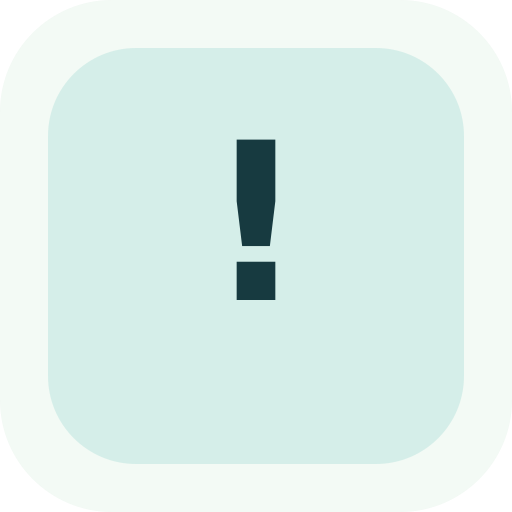
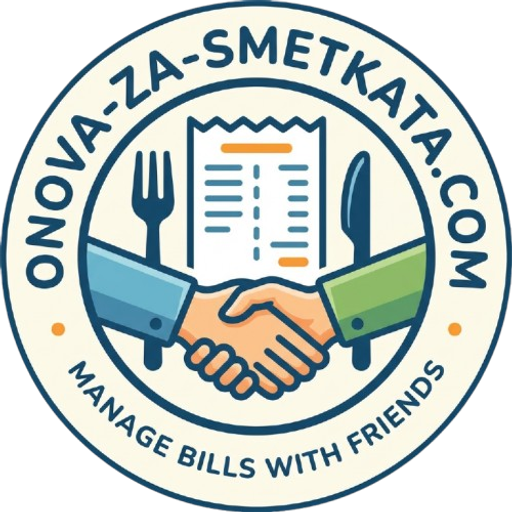
chore: update project configuration and assets for SEO enhancements
- Add new scripts for generating Open Graph images and update the PWA icon generation script to use a logo if available.
- Introduce a new SEO design document outlining share-friendly metadata and routing policies.
- Update the robots.txt and sitemap.xml for better search engine indexing.
- Implement site metadata functions to build Open Graph tags and manage page titles.
- Add tests for site metadata functions to ensure correct behavior across various scenarios.
- Include new logo and Open Graph image assets in the public directory.

diff --git a/src/lib/site-meta.ts b/src/lib/site-meta.ts
@@ -1,0 +1,106 @@
+export const SITE_NAME = 'Онова за сметката'
+
+export const SITE_DESCRIPTION =
+  'Мобилно приложение за разделяне на ресторантски сметки — добавяй участници, разпределяй артикули и следи плащанията.'
+
+export const JOIN_OG_TITLE = 'Присъедини се към сметката'
+
+export const JOIN_OG_DESCRIPTION =
+  'Отвори линка, избери името си и отбележи какво си консумирал.'
+
+export const DEFAULT_SITE_ORIGIN = 'https://onova-za-smetkata.com'
+
+export const OG_IMAGE_PATH = '/og-image.png'
+
+export type SiteMetaTag = {
+  charSet?: string
+  title?: string
+  name?: string
+  property?: string
+  content?: string
+}
+
+export function resolveSiteOrigin(fallbackOrigin = ''): string {
+  const fromEnv = import.meta.env.VITE_APP_ORIGIN?.trim()
+  if (fromEnv) return fromEnv.replace(/\/$/, '')
+  if (fallbackOrigin) return fallbackOrigin.replace(/\/$/, '')
+  return DEFAULT_SITE_ORIGIN
+}
+
+export function absoluteSiteUrl(path: string, origin?: string): string {
+  const base = (origin ?? resolveSiteOrigin()).replace(/\/$/, '')
+  if (path.startsWith('http://') || path.startsWith('https://')) return path
+  return `${base}${path.startsWith('/') ? path : `/${path}`}`
+}
+
+export function robotsNoIndexMeta(): SiteMetaTag {
+  return { name: 'robots', content: 'noindex, nofollow' }
+}
+
+export function buildOpenGraphMeta(options: {
+  title: string
+  description: string
+  path?: string
+  imagePath?: string
+  origin?: string
+}): SiteMetaTag[] {
+  const origin = options.origin ?? resolveSiteOrigin()
+  const pageUrl = absoluteSiteUrl(options.path ?? '/', origin)
+  const imageUrl = absoluteSiteUrl(options.imagePath ?? OG_IMAGE_PATH, origin)
+
+  return [
+    { name: 'description', content: options.description },
+    { property: 'og:title', content: options.title },
+    { property: 'og:description', content: options.description },
+    { property: 'og:type', content: 'website' },
+    { property: 'og:url', content: pageUrl },
+    { property: 'og:image', content: imageUrl },
+    { property: 'og:locale', content: 'bg_BG' },
+    { property: 'og:site_name', content: SITE_NAME },
+    { name: 'twitter:card', content: 'summary_large_image' },
+    { name: 'twitter:title', content: options.title },
+    { name: 'twitter:description', content: options.description },
+    { name: 'twitter:image', content: imageUrl },
+  ]
+}
+
+export function buildPageTitle(pageTitle: string): string {
+  return `${pageTitle} · ${SITE_NAME}`
+}
+
+export function buildHomeHead(origin?: string) {
+  const resolvedOrigin = origin ?? resolveSiteOrigin()
+  return {
+    title: SITE_NAME,
+    meta: buildOpenGraphMeta({
+      title: SITE_NAME,
+      description: SITE_DESCRIPTION,
+      path: '/',
+      origin: resolvedOrigin,
+    }),
+    links: [{ rel: 'canonical', href: absoluteSiteUrl('/', resolvedOrigin) }],
+  }
+}
+
+export function buildJoinShareHead(billId: string, origin?: string) {
+  const resolvedOrigin = origin ?? resolveSiteOrigin()
+  return {
+    title: buildPageTitle(JOIN_OG_TITLE),
+    meta: [
+      robotsNoIndexMeta(),
+      ...buildOpenGraphMeta({
+        title: JOIN_OG_TITLE,
+        description: JOIN_OG_DESCRIPTION,
+        path: `/bills/${billId}/join`,
+        origin: resolvedOrigin,
+      }),
+    ],
+  }
+}
+
+export function buildNoIndexHead(pageTitle: string) {
+  return {
+    title: buildPageTitle(pageTitle),
+    meta: [robotsNoIndexMeta()],
+  }
+}

diff --git a/src/lib/site-meta.test.ts b/src/lib/site-meta.test.ts
@@ -1,0 +1,75 @@
+import { describe, expect, it } from 'vitest'
+import {
+  absoluteSiteUrl,
+  buildJoinShareHead,
+  buildOpenGraphMeta,
+  DEFAULT_SITE_ORIGIN,
+  JOIN_OG_DESCRIPTION,
+  JOIN_OG_TITLE,
+  OG_IMAGE_PATH,
+  resolveSiteOrigin,
+  SITE_NAME,
+} from './site-meta'
+
+describe('resolveSiteOrigin', () => {
+  it('uses fallback origin when env is unset', () => {
+    expect(resolveSiteOrigin('https://preview.vercel.app')).toBe(
+      'https://preview.vercel.app',
+    )
+  })
+
+  it('falls back to default production origin', () => {
+    expect(resolveSiteOrigin()).toBe(DEFAULT_SITE_ORIGIN)
+  })
+})
+
+describe('buildOpenGraphMeta', () => {
+  it('builds absolute og:image and og:url', () => {
+    const tags = buildOpenGraphMeta({
+      title: SITE_NAME,
+      description: 'Test',
+      path: '/',
+      origin: 'https://example.com',
+    })
+
+    expect(tags).toEqual(
+      expect.arrayContaining([
+        { property: 'og:url', content: 'https://example.com/' },
+        {
+          property: 'og:image',
+          content: `https://example.com${OG_IMAGE_PATH}`,
+        },
+        { name: 'twitter:card', content: 'summary_large_image' },
+      ]),
+    )
+  })
+})
+
+describe('buildJoinShareHead', () => {
+  it('includes noindex and join-specific og:url', () => {
+    const head = buildJoinShareHead('bill123', 'https://example.com')
+    const meta = head.meta
+
+    expect(head.title).toContain(JOIN_OG_TITLE)
+    expect(meta).toContainEqual({
+      name: 'robots',
+      content: 'noindex, nofollow',
+    })
+    expect(meta).toContainEqual({
+      property: 'og:url',
+      content: 'https://example.com/bills/bill123/join',
+    })
+    expect(meta).toContainEqual({
+      property: 'og:description',
+      content: JOIN_OG_DESCRIPTION,
+    })
+  })
+})
+
+describe('absoluteSiteUrl', () => {
+  it('joins origin and path', () => {
+    expect(absoluteSiteUrl('/og-image.png', 'https://example.com')).toBe(
+      'https://example.com/og-image.png',
+    )
+  })
+})

diff --git a/src/routes/index.tsx b/src/routes/index.tsx
@@ -15,9 +15,13 @@ import { Label } from '#/components/ui/label.tsx'
 import { Skeleton } from '#/components/ui/skeleton.tsx'
 import { useRequireHostAuth } from '#/hooks/use-require-host-auth.ts'
 import { PwaInstallBanner } from '#/components/pwa-install-banner.tsx'
+import { buildHomeHead } from '#/lib/site-meta.ts'
 import { api } from '../../convex/_generated/api'
 
-export const Route = createFileRoute('/')({ component: Home })
+export const Route = createFileRoute('/')({
+  head: () => buildHomeHead(),
+  component: Home,
+})
 
 function Home() {
   const navigate = useNavigate()

diff --git a/src/routes/__root.tsx b/src/routes/__root.tsx
@@ -17,6 +17,7 @@ import { Button } from '#/components/ui/button.tsx'
 import { ICON } from '#/lib/app-icons.ts'
 
 import { SentryInit } from '../components/sentry-init.tsx'
+import { SITE_NAME } from '#/lib/site-meta.ts'
 import appCss from '../styles.css?url'
 
 function RootError({ error }: ErrorComponentProps) {
@@ -47,6 +48,7 @@ function RootError({ error }: ErrorComponentProps) {
 
 export const Route = createRootRoute({
   head: () => ({
+    title: SITE_NAME,
     meta: [
       {
         charSet: 'utf-8',
@@ -54,9 +56,6 @@ export const Route = createRootRoute({
       {
         name: 'viewport',
         content: 'width=device-width, initial-scale=1',
-      },
-      {
-        title: 'Онова за сметката',
       },
       {
         name: 'theme-color',

diff --git a/src/routes/$.tsx b/src/routes/$.tsx
@@ -1,7 +1,9 @@
 import { Link, createFileRoute } from '@tanstack/react-router'
 import { Button } from '#/components/ui/button.tsx'
+import { buildNoIndexHead } from '#/lib/site-meta.ts'
 
 export const Route = createFileRoute('/$')({
+  head: () => buildNoIndexHead('Страницата не е намерена'),
   component: NotFoundPage,
 })
 

diff --git a/src/routes/bills/$billId/claim.tsx b/src/routes/bills/$billId/claim.tsx
@@ -25,10 +25,12 @@ import {
   filterGuestClaimItemsBySearch,
   filterUnclaimedGuestClaimItems,
 } from '#/lib/guest-claim-items.ts'
+import { buildNoIndexHead } from '#/lib/site-meta.ts'
 import { api } from '../../../../convex/_generated/api'
 import type { Doc, Id } from '../../../../convex/_generated/dataModel'
 
 export const Route = createFileRoute('/bills/$billId/claim')({
+  head: () => buildNoIndexHead('Моят дял'),
   component: BillClaimPage,
 })
 

diff --git a/src/routes/bills/$billId/index.tsx b/src/routes/bills/$billId/index.tsx
@@ -42,12 +42,14 @@ import { cn } from '#/lib/utils.ts'
 import { useRequireHostAuth } from '#/hooks/use-require-host-auth.ts'
 import { BillHeaderTitleSync } from '#/components/layout/bill-header-title.tsx'
 import { Skeleton } from '#/components/ui/skeleton.tsx'
+import { buildNoIndexHead } from '#/lib/site-meta.ts'
 import { api } from '../../../../convex/_generated/api'
 import type { Id } from '../../../../convex/_generated/dataModel'
 
 type BillData = NonNullable<FunctionReturnType<typeof api.bills.get>>
 
 export const Route = createFileRoute('/bills/$billId/')({
+  head: () => buildNoIndexHead('Сметка'),
   component: BillEditor,
 })
 

diff --git a/src/routes/bills/$billId/join.tsx b/src/routes/bills/$billId/join.tsx
@@ -13,10 +13,12 @@ import {
   getStoredGuestSession,
   setStoredGuestSession,
 } from '#/lib/guest-participant-session.ts'
+import { buildJoinShareHead } from '#/lib/site-meta.ts'
 import { api } from '../../../../convex/_generated/api'
 import type { Id } from '../../../../convex/_generated/dataModel'
 
 export const Route = createFileRoute('/bills/$billId/join')({
+  head: ({ params }) => buildJoinShareHead(params.billId),
   component: BillJoinPage,
 })
 

diff --git a/src/routes/bills/$billId/summary.tsx b/src/routes/bills/$billId/summary.tsx
@@ -51,10 +51,12 @@ import { buildParticipantLabels } from '#/lib/participant-labels.ts'
 import { useRequireHostAuth } from '#/hooks/use-require-host-auth.ts'
 import { BillHeaderTitleSync } from '#/components/layout/bill-header-title.tsx'
 import { Skeleton } from '#/components/ui/skeleton.tsx'
+import { buildNoIndexHead } from '#/lib/site-meta.ts'
 import { api } from '../../../../convex/_generated/api'
 import type { Id } from '../../../../convex/_generated/dataModel'
 
 export const Route = createFileRoute('/bills/$billId/summary')({
+  head: () => buildNoIndexHead('Обобщение'),
   component: BillSummary,
 })
 

diff --git a/src/routes/login.tsx b/src/routes/login.tsx
@@ -6,8 +6,10 @@ import { Button } from '#/components/ui/button.tsx'
 import { Input } from '#/components/ui/input.tsx'
 import { Separator } from '#/components/ui/separator.tsx'
 import { isClientDevMode } from '#/lib/dev-mode.ts'
+import { buildNoIndexHead } from '#/lib/site-meta.ts'
 
 export const Route = createFileRoute('/login')({
+  head: () => buildNoIndexHead('Вход'),
   validateSearch: (search: Record<string, unknown>) => ({
     redirect:
       typeof search.redirect === 'string' && search.redirect.startsWith('/')

diff --git a/docs/superpowers/specs/2026-07-08-share-friendly-seo-design.md b/docs/superpowers/specs/2026-07-08-share-friendly-seo-design.md
@@ -1,0 +1,66 @@
+# Share-Friendly SEO Design
+
+**Status:** Approved  
+**Date:** 2026-07-08  
+**Goal:** Branded link previews for shared bill join URLs, sensible homepage metadata, and no indexing of private/capability routes.
+
+---
+
+## Decisions
+
+| Decision | Choice |
+|----------|--------|
+| Scope | Option B — share-friendly, not full marketing site |
+| OG image | Dedicated `public/og-image.png` (1200×630) |
+| Join link OG | Generic copy (no restaurant/bill names in meta) |
+| Indexable routes | `/` only |
+| Base URL | `VITE_APP_ORIGIN` with fallback `https://onova-za-smetkata.com` |
+
+---
+
+## Architecture
+
+- `src/lib/site-meta.ts` — shared copy, absolute URL helpers, OG/Twitter meta builders
+- Route `head()` overrides per page type
+- Static `public/robots.txt`, `public/sitemap.xml`, `public/og-image.png`
+- `scripts/generate-og-image.mjs` — generates OG image from brand colors + icon
+
+---
+
+## Route head policy
+
+| Route | robots | OG / Twitter |
+|-------|--------|--------------|
+| `/` | index (default) | Full homepage tags + canonical |
+| `/login` | noindex, nofollow | Title only |
+| `/bills/$billId/join` | noindex, nofollow | Full share preview tags |
+| Other `/bills/*` | noindex, nofollow | Title only |
+| `/$` (404) | noindex | Title only |
+
+---
+
+## Static files
+
+**robots.txt:** Allow `/`, disallow `/bills/` and `/login`, reference sitemap.
+
+**sitemap.xml:** Single URL — homepage.
+
+**og-image.png:** 1200×630, brand colors, app name in Bulgarian.
+
+---
+
+## Success criteria
+
+1. Join URL shows title, description, and image in link preview debuggers.
+2. Homepage has description, OG, and canonical in SSR HTML.
+3. `/bills/*` and `/login` blocked in robots.txt.
+4. `<title>` is top-level in TanStack `head()`, not inside `meta`.
+
+---
+
+## Out of scope
+
+- Marketing landing pages, blog, FAQ
+- Dynamic OG with bill/restaurant names
+- JSON-LD structured data
+- hreflang / bilingual SEO